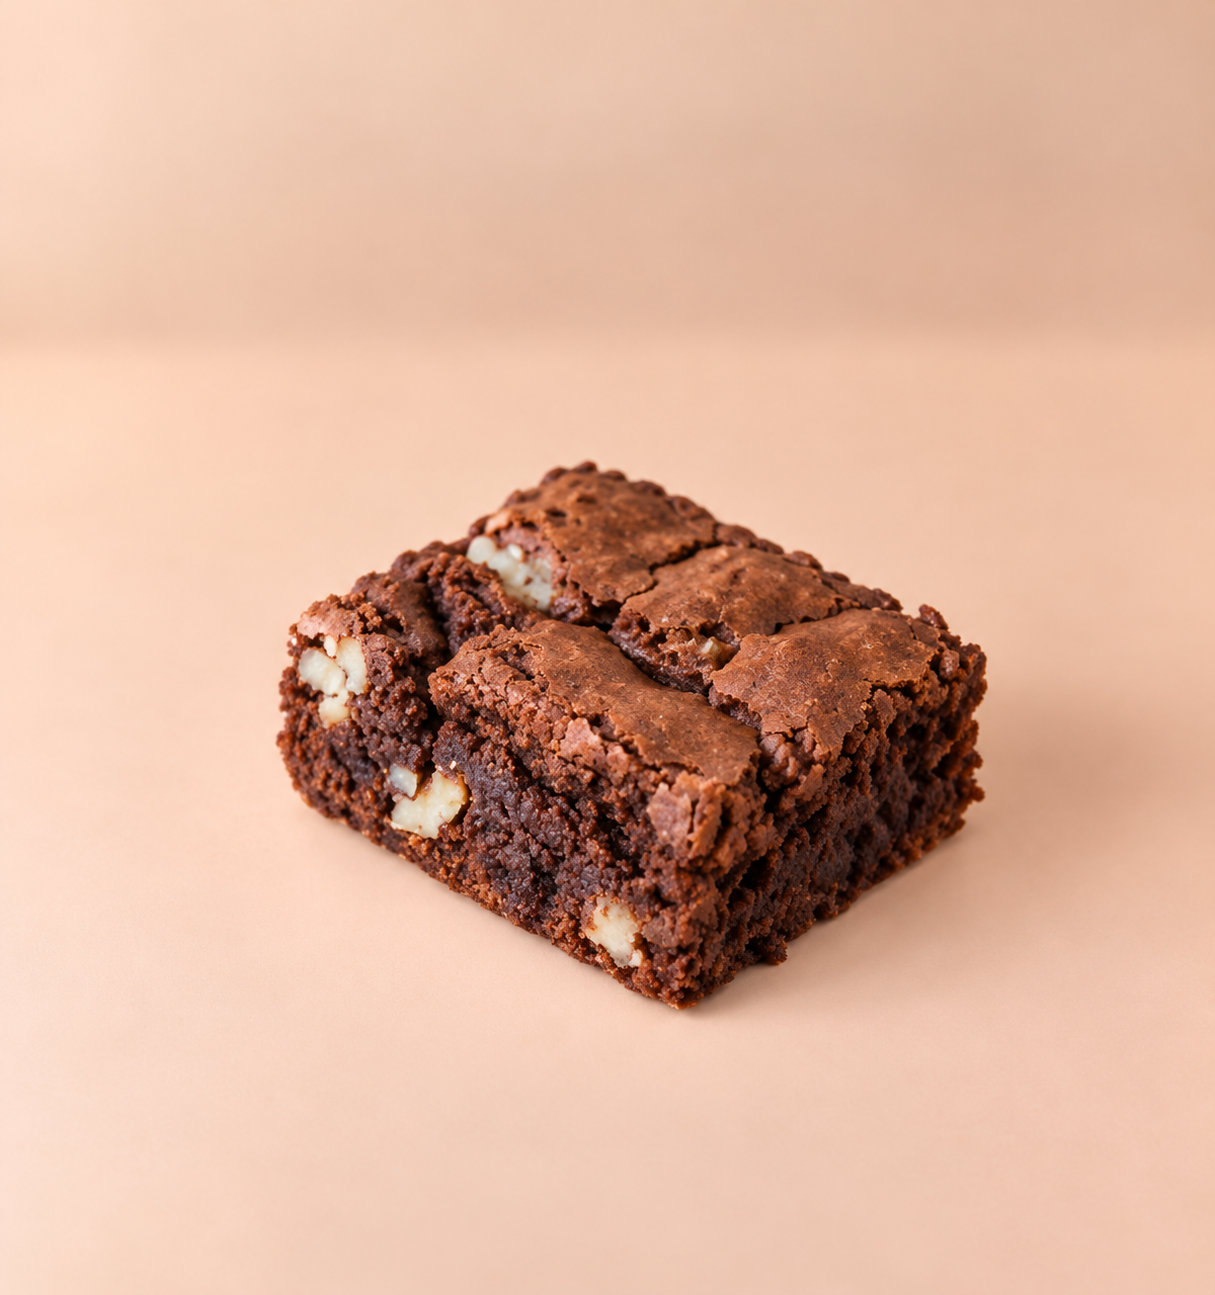
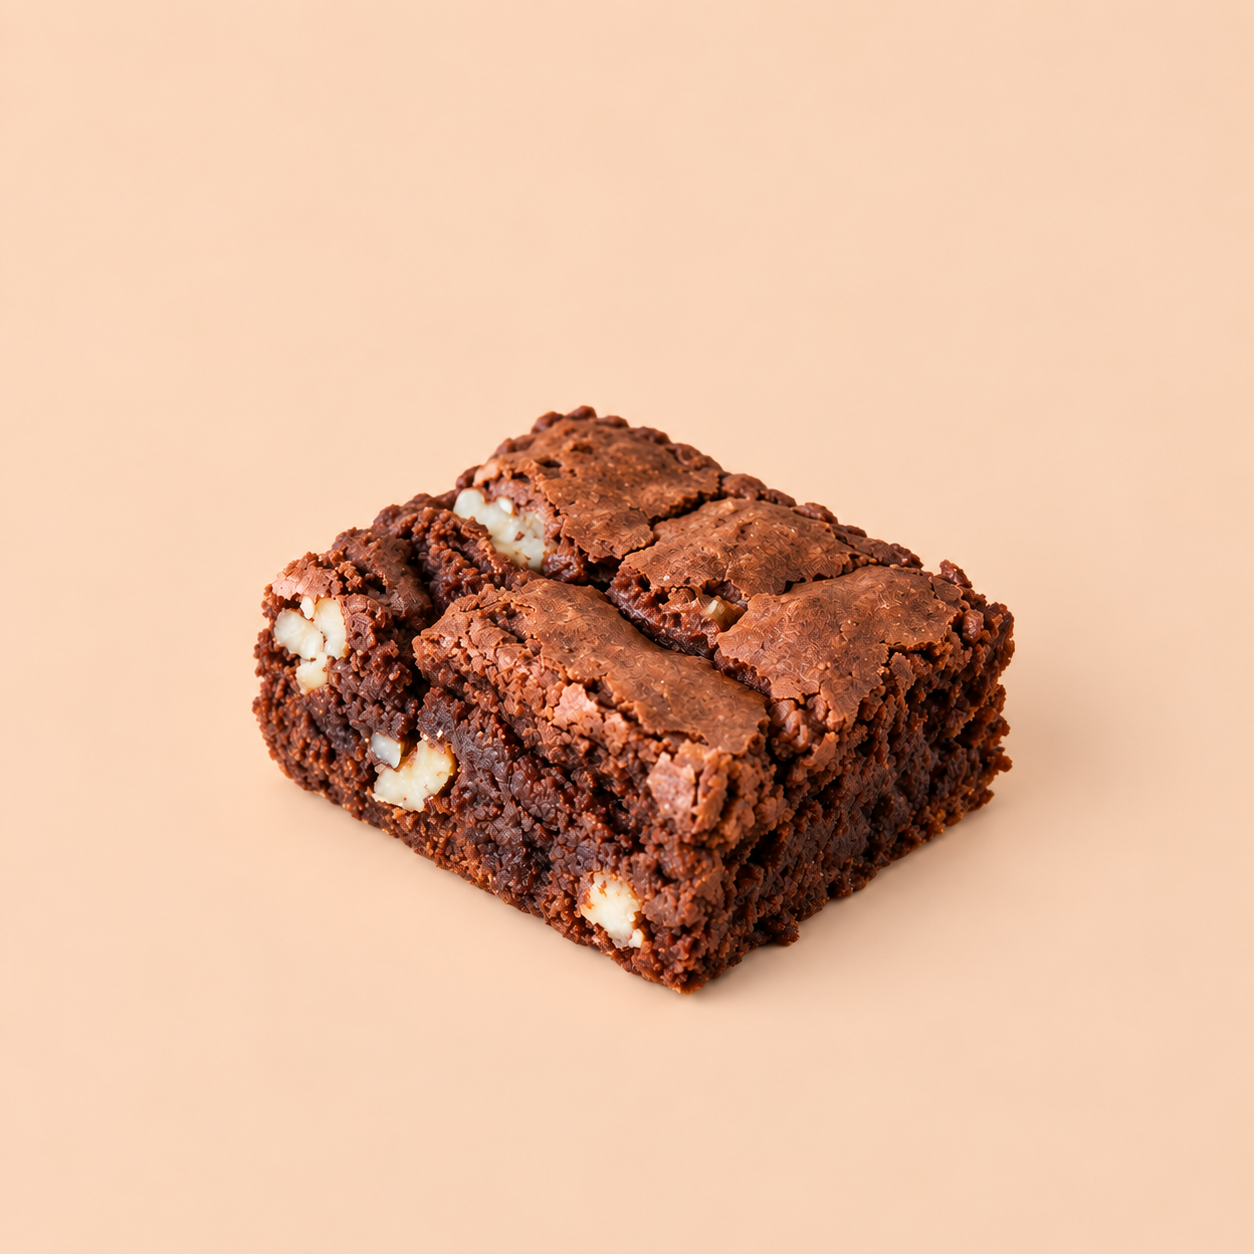
Brownie Pécan : image → brownie.png, prix → 3,50€

diff --git a/src/data/products.ts b/src/data/products.ts
@@ -932,9 +932,9 @@ export const allProducts: Product[] = [
     id: "brownie-pecan",
     name: "Brownie Pécan",
     name_en: "Pecan Brownie",
-    price: "3,80€",
+    price: "3,50€",
     category: "Le Sucré",
-    img: "/brownie.webp",
+    img: "/brownie.png",
     desc: "",
     composition: ["85g", "Chocolat", "Noix de pécan"],
     composition_en: ["85g", "Chocolate", "Pecan nuts"],

diff --git a/src/pages/CartePage.tsx b/src/pages/CartePage.tsx
@@ -251,8 +251,8 @@ const produits: Record<string, { id: string; name: string; price: string; img: s
     {
       id: "brownie-pecan",
       name: "Brownie Pécan",
-      price: "3,80€",
-      img: "/brownie.webp",
+      price: "3,50€",
+      img: "/brownie.png",
     },
     {
       id: "muffin-myrtilles",
